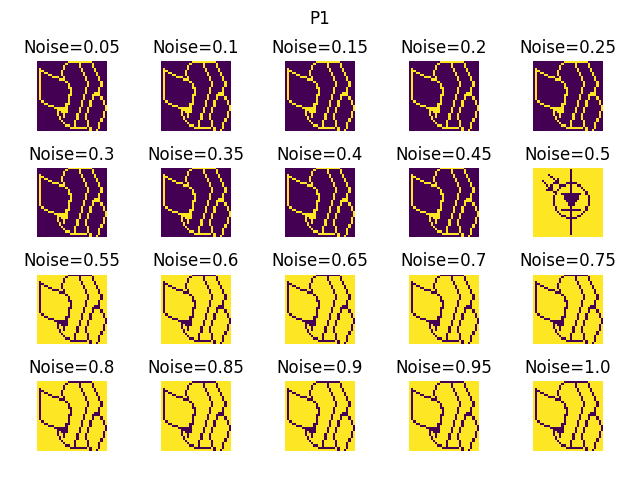
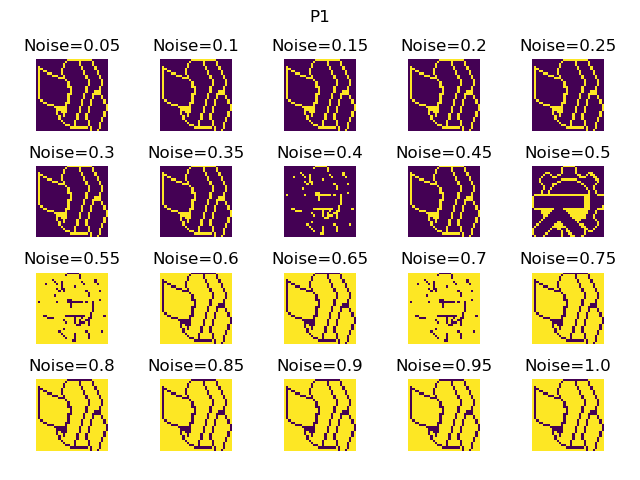
3.5 and 3.6

diff --git a/lab3/_3_5.py b/lab3/_3_5.py
@@ -1,5 +1,6 @@
 from _3_1 import Hopfield, sign
 from _3_2 import loadImgs, showImage
+from _3_3 import plotCurves
 import numpy as np
 import matplotlib.pyplot as plt
 
@@ -8,15 +9,56 @@ if __name__ == "__main__":
     images = np.flip(images, axis=0)
     N = images.shape[1]
 
-    def tryToTrainPredict(_images, noiseLevel):
+    def predictStableSamples(_images, noiseLevel):
+        performance = []
+
+        stable_images = []
 
         for train_idx in range(len(_images)):
+
             target = _images[:train_idx + 1]
 
             net = Hopfield()
             net.train(target)
 
-            # try reconvering the last image (target) from a noisy version of target
+
+            #last attempt still stable?
+            sum_stable = 0
+            if train_idx > 0:
+                pred = net.predict_sync(stable_images, max_iter=1)
+                for index in range(train_idx):
+                    if (net.energy(pred[index]) == net.energy(stable_images[index])):
+                        sum_stable += 1
+                sum_stable = sum_stable/(train_idx)
+                performance.append(sum_stable)
+
+            # calculate new stable images
+            # add noise
+            args = np.random.choice(N, int(noiseLevel * N), replace=False)
+            noisy = np.copy(target)
+            noisy[:, args] = noisy[:, args] * -1
+
+            stable_images = net.predict_sync(noisy)
+            passed = np.all(stable_images == target)
+
+            print(train_idx, "sum_stable", sum_stable)#, "passed: ", passed)
+
+
+        return performance
+
+
+    def tryToTrainPredict(_images, noiseLevel, delete_diagonal=False):
+
+        performance = []
+
+        for train_idx in range(len(_images)):
+            print(train_idx)
+            target = _images[:train_idx + 1]
+
+            net = Hopfield()
+            net.train(target, delete_diagonal)
+
+            # try reconverging the last image (target) from a noisy version of target
             args = np.random.choice(N, int(noiseLevel * N), replace=False)
             noisy = np.copy(target)
             noisy[:,args] = noisy[:,args] * -1
@@ -24,17 +66,66 @@ if __name__ == "__main__":
 
             passed = np.all(pred == target)
 
+            # performance rate
+            sum = 0
+            for e in range(train_idx+1):
+                if(net.energy(target[e]) == net.energy(pred[e])):
+                    sum += 1
+
+            sum = sum/(train_idx+1)
+            performance.append(sum)
+
+
             # print ("Target Energy", net.energy(target[0]))
             # print ("Pred Energy", net.energy(pred[0]))
             # print(f"Num Trained {train_idx + 1}, Passed:", passed)
 
-            if not passed:
-                return train_idx
+            #if not passed:
+                #return train_idx
+        return performance
 
-    print (tryToTrainPredict(images, 0.2))
+
+#    plotCurves(
+#        {"Performance": tryToTrainPredict(images, 0.2)},
+#        "Images trained",
+#        "identified correct",
+#        "Performance per trained Images (given samples)",
+#        save_file="pictures/3_5_performance_given_images.png",
+#    )
 
     randomImages = sign(np.random.randn(200, N))
 
-    print ("\n", "Random")
+#    print ("\n", "Random")
+#    plotCurves(
+#            {"Performance": tryToTrainPredict(randomImages, 0.2)},
+#            "Images trained",
+#            "identified correct",
+#            "Performance per trained Images (random samples)",
+#            save_file="pictures/3_5_performance_random_images.png",
+#        )
 
-    print (tryToTrainPredict(randomImages, 0.2))
+    randomImages = sign(0.5+np.random.randn(100, N))
+
+    print(randomImages.shape)
+    print("\n", "Removed self connections")
+    plotCurves(
+        {"Performance": tryToTrainPredict(randomImages, 0.2, True)},
+        "Images trained",
+        "identified correct",
+        "Performance per trained Images (random samples)",
+        save_file="pictures/3_5_performance_wo_wii_images_bias.png",
+    )
+
+    N = 100
+    randomImages = sign(np.random.randn(300, N))
+    print(randomImages.shape)
+
+    print ("\n", "stable after adding to Weight")
+   # plotCurves(
+   #         {"Performance": predictStableSamples(randomImages, 0.2)},
+   #         "Images trained",
+   #         "stable samples",
+   #         "Performance per trained Images (random samples)",
+   #         save_file="pictures/3_5_performance_noise_stable_samples.png",
+   #     )
+

diff --git a/lab3/_3_6.py b/lab3/_3_6.py
@@ -1,0 +1,139 @@
+import numpy as np
+from _3_3 import plotCurves
+
+sign = np.vectorize(lambda x: np.where(x >= 0, 1, -1))
+
+
+# sign = np.sign
+
+class sparse_Hopfield:
+    def train(self, samples, activity):
+        width = samples.shape[1]
+        self.W = np.zeros((width, width))
+        for x in samples:
+            self.W += np.outer(x-activity, x-activity)
+
+        # Do we get rid of diagonal?
+        # np.fill_diagonal(self.W,0)
+
+        self.W = self.W / len(samples)
+
+    def predict_sync(self, x, bias, max_iter=200):
+
+        self.past_energy = []
+        x_cur = np.copy(x.T)
+
+        for _ in range(max_iter):
+            self.past_energy.append(self.energy(x_cur))
+            x_next = 0.5 + 0.5*sign((self.W @ x_cur) - bias)
+            if np.all(x_next == x_cur):
+                break
+            x_cur = x_next
+        return x_cur.T.astype(int)
+
+    def predict_async(self, x, max_iter=100000):
+
+        same_energy_count = 0
+
+        self.past_energy = []
+
+        x_cur = np.copy(x.T)
+        for _ in range(max_iter):
+            idx = np.random.choice(self.W.shape[0])
+            x_cur[idx] = np.sign(np.dot(self.W[idx], x_cur))
+            self.past_energy.append(self.energy(x_cur))
+            if _ > 1 and self.past_energy[-2] == self.past_energy[-1]:
+                if same_energy_count >= 5000:
+                    break
+                else:
+                    same_energy_count += 1
+            else:
+                same_energy_count = 0
+
+        return x_cur
+
+    def get_attractors(self):
+        attractors = set()
+        N = self.W.shape[0]
+        for i in range(2 ** N):
+            a = np.array(list(f"{i:b}".zfill(N)), dtype=int) * 2 - 1
+            p = self.predict_sync(a)
+            attractors.add(np.array2string(p))
+        return attractors
+
+    def energy(self, x):
+        return np.round(-1 * x.T @ self.W @ x, 5)
+
+
+if __name__ == "__main__":
+
+    N=100
+    samples = 100
+    activity=0.1
+    bias = 0
+    net = sparse_Hopfield()
+
+    #create sparse pattern
+    X = np.zeros([samples,N],dtype=int)
+    for index in range(samples):
+        args = np.random.choice(N, int(activity * N), replace=False)
+        X[index, args] = X[index, args] + 1
+
+    #how many patterns can be stored in network?
+
+    def max_trained_patterns(b_in):
+        max_trained_patterns = 0
+        for i in range(samples):
+            net.train(X[:i+1], activity)
+            pred = net.predict_sync(X[:i+1],b_in)
+            if np.all(pred[i] == X[i]):
+                #print(i, pred[i], X[i])
+                max_trained_patterns = i+1
+            else:
+                break
+        return max_trained_patterns
+
+
+    trained = []
+    for bias in range(20+1):
+        n = max_trained_patterns(bias*0.05)
+        print("max patterns: (bias ", bias*0.05, ") ", n)
+        trained.append(n)
+
+    plotCurves(
+            {"Performance": trained},
+            "bias * 0.05",
+            "max Images trained",
+            "Performance vs bias (random samples)",
+            save_file="pictures/3_6_performance_patterns_10.png",
+        )
+
+    activity = 0.05
+    trained = []
+    for bias in range(20+1):
+        n = max_trained_patterns(bias*0.05)
+        print("max patterns: (bias ", bias*0.05, ") ", n)
+        trained.append(n)
+
+    plotCurves(
+            {"Performance": trained},
+            "bias * 0.05",
+            "max Images trained",
+            "Performance vs bias (random samples)",
+            save_file="pictures/3_6_performance_patterns_5.png",
+        )
+
+    activity = 0.01
+    trained = []
+    for bias in range(20+1):
+        n = max_trained_patterns(bias*0.05)
+        print("max patterns: (bias ", bias*0.05, ") ", n)
+        trained.append(n)
+
+    plotCurves(
+            {"Performance": trained},
+            "bias * 0.05",
+            "max Images trained",
+            "Performance vs bias (random samples)",
+            save_file="pictures/3_6_performance_patterns_1.png",
+        )

diff --git a/lab3/_3_1.py b/lab3/_3_1.py
@@ -4,14 +4,15 @@ sign = np.vectorize(lambda x: np.where(x>=0, 1, -1))
 # sign = np.sign
 
 class Hopfield:
-    def train(self, samples):
+    def train(self, samples, delete_diagonal=False):
         width = samples.shape[1]
         self.W = np.zeros((width, width))
         for x in samples:
             self.W += np.outer(x, x)
 
         # Do we get rid of diagonal?
-        # np.fill_diagonal(self.W,0)
+        if delete_diagonal:
+            np.fill_diagonal(self.W,0)
 
         self.W = self.W / len(samples)
 
@@ -29,9 +30,9 @@ class Hopfield:
         return x_cur.T.astype(int)
 
     def predict_async(self, x, max_iter=100000):
-        
+
         same_energy_count = 0
-        
+
         self.past_energy = []
 
         x_cur = np.copy(x.T)
@@ -46,8 +47,8 @@ class Hopfield:
                     same_energy_count += 1
             else:
                 same_energy_count = 0
-                
-        return x_cur 
+
+        return x_cur
 
     def get_attractors(self):
         attractors = set()
@@ -57,12 +58,12 @@ class Hopfield:
             p = self.predict_sync(a)
             attractors.add(np.array2string(p))
         return attractors
-    
+
     def energy(self, x):
         return np.round(-1 * x.T @ self.W @ x, 5)
 
 if __name__ == "__main__":
-    
+
     x1 = [-1, -1, 1, -1, 1, -1, -1, 1]
     x2 = [-1, -1, -1, -1, -1, 1, -1, -1]
     x3 = [-1, 1, 1, -1, -1, 1, -1, 1]
